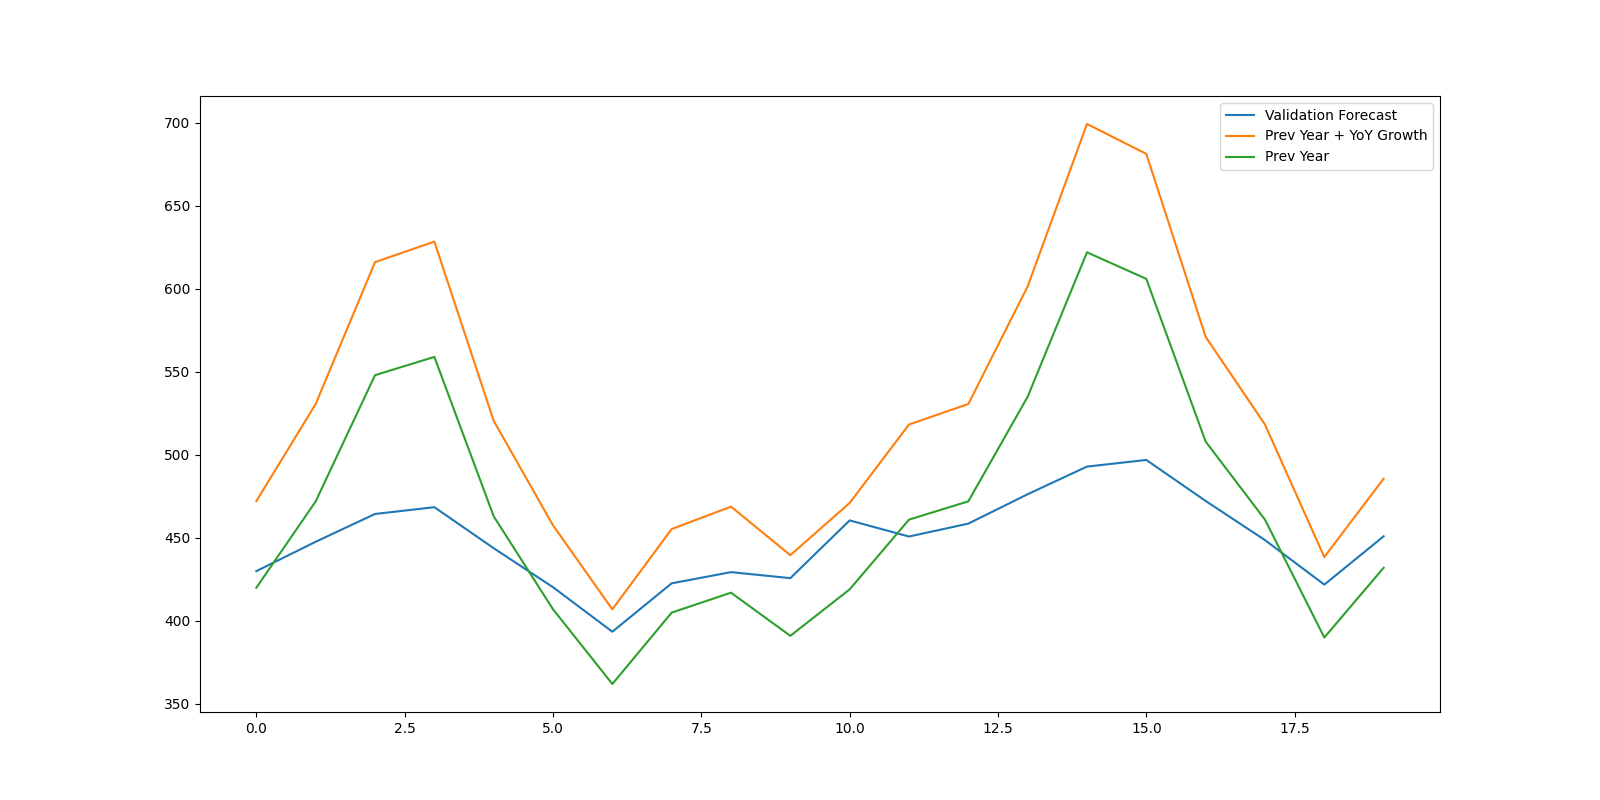
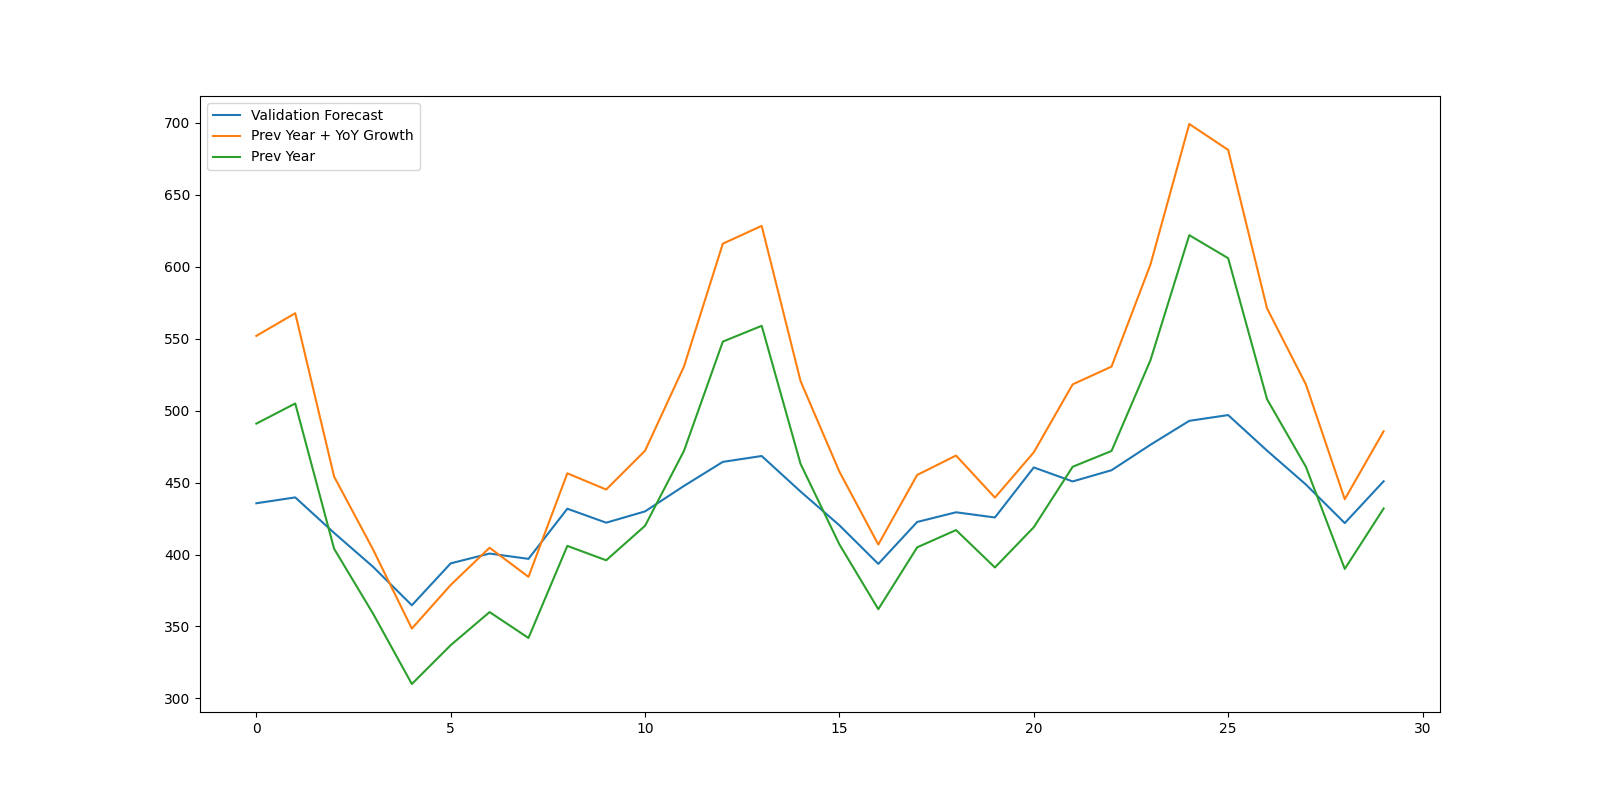
Adding Files

diff --git a/src/model_functions/pyAF_model.py b/src/model_functions/pyAF_model.py
@@ -43,12 +43,8 @@ def train_model(dataframe):
         model = build_model_object()
 
         # Fitting Model
-        seasonal_comparison_offset = validation_steps - yearly_steps
         model.train(dataframe[cols], date_column_name, target_column_name, h)
         forecast_results = model.forecast(dataframe[cols], validation_steps)
-        
-        offset_forecast = forecast_results.iloc[-validation_steps-seasonal_comparison_offset:-seasonal_comparison_offset]
-        forecast_values = offset_forecast[target_column_name + '_Forecast'].values
 
         # Test Period Forecast
         test_period_forecast = forecast_results[[target_column_name,target_column_name + '_Forecast']].dropna().iloc[-validation_steps:][target_column_name + '_Forecast'].values
@@ -71,20 +67,38 @@ def train_model(dataframe):
         growth = (avg_last_year_1 - avg_last_year_2) / avg_last_year_2
         #growth = max(-.10, min(growth, .10))
         
-        # Creating a seasonal estimate 
-        yoy_seasonal_forecast = (dataframe.iloc[-validation_steps:][target_column_name] * (1 + growth)).values
-       
+        # Offsetting 
+        offset = validation_steps - yearly_steps
+
+        if offset == 0:
+            # If yearly steps line up to validation steps, no need to offset
+            forecast_values = forecast_results.iloc[-validation_steps:][target_column_name + '_Forecast'].values
+            yoy_seasonal_forecast = (dataframe.iloc[-validation_steps:][target_column_name] * (1 + growth)).values
+            prev_year_values = dataframe.iloc[-validation_steps:][target_column_name].values
+
+        elif offset > 0:
+            # If yearly steps < validation steps will need to offset forecast
+            forecast_values = forecast_results.iloc[-validation_steps-offset:-offset][target_column_name + '_Forecast'].values
+            yoy_seasonal_forecast = (dataframe.iloc[-validation_steps:][target_column_name] * (1 + growth)).values
+            prev_year_values = dataframe.iloc[-validation_steps:][target_column_name].values
+
+        elif offset < 0:
+            # If yearly steps > validation steps will need to offsets actuals
+            forecast_values = forecast_results.iloc[-validation_steps:][target_column_name + '_Forecast'].values
+            yoy_seasonal_forecast = (dataframe.iloc[-validation_steps-abs(offset):-abs(offset)][target_column_name] * (1 + growth)).values
+            prev_year_values = dataframe.iloc[-validation_steps-abs(offset):-abs(offset)][target_column_name].values
+
         # Write Plots for YoY Growth vs Forecast
         figure, axis = plt.subplots(figsize=(16,8))
         plt.plot(forecast_values, label='Validation Forecast')
         plt.plot(yoy_seasonal_forecast, label='Prev Year + YoY Growth')
-        plt.plot(dataframe.iloc[-validation_steps:][target_column_name].values, label='Prev Year')
+        plt.plot(prev_year_values, label='Prev Year')
         plt.legend()
         plt.savefig(f"../run_results/{iteration_name}/validation_plots_YoY_growth/{h}.png")
 
         # MAPE Growth Seasonal Data vs Forecast
         mape_seasonal_yoy = mape(yoy_seasonal_forecast, forecast_values)
-        
+
         # MAPE CV Growth Seasonal Data vs Forecast
         seasonal_cv = np.std(yoy_seasonal_forecast) / np.mean(yoy_seasonal_forecast)
         forecast_cv = np.std(forecast_values) / np.mean(forecast_values)

diff --git a/src/config.py b/src/config.py
@@ -5,8 +5,8 @@ app_root = '/Users/rrangel/Downloads/app_example/'
 sys.path.insert(0, app_root)
 
 run_settings = {
-    'ITERATION_NAME' : 'iteration 1',
-    'VALIDATION_STEPS' : 20,
+    'ITERATION_NAME' : 'iteration 2',
+    'VALIDATION_STEPS' : 30,
     'FORECAST_STEPS' : 12,
     'YEARLY_STEPS' : 12, # 12 = Monthly, 52 = Weekly, 365 = Daily
     'DATE_COLUMN_NAME' : 'Month',
@@ -21,6 +21,6 @@ selector_switch = {
     }
 
 pyAF_settings = {
-    #'horizon_steps': [i for i in range(2,29,2)],
-    'horizon_steps': [2]
+    'horizon_steps': [i for i in range(2,29,2)],
+    #'horizon_steps': [2]
 }
